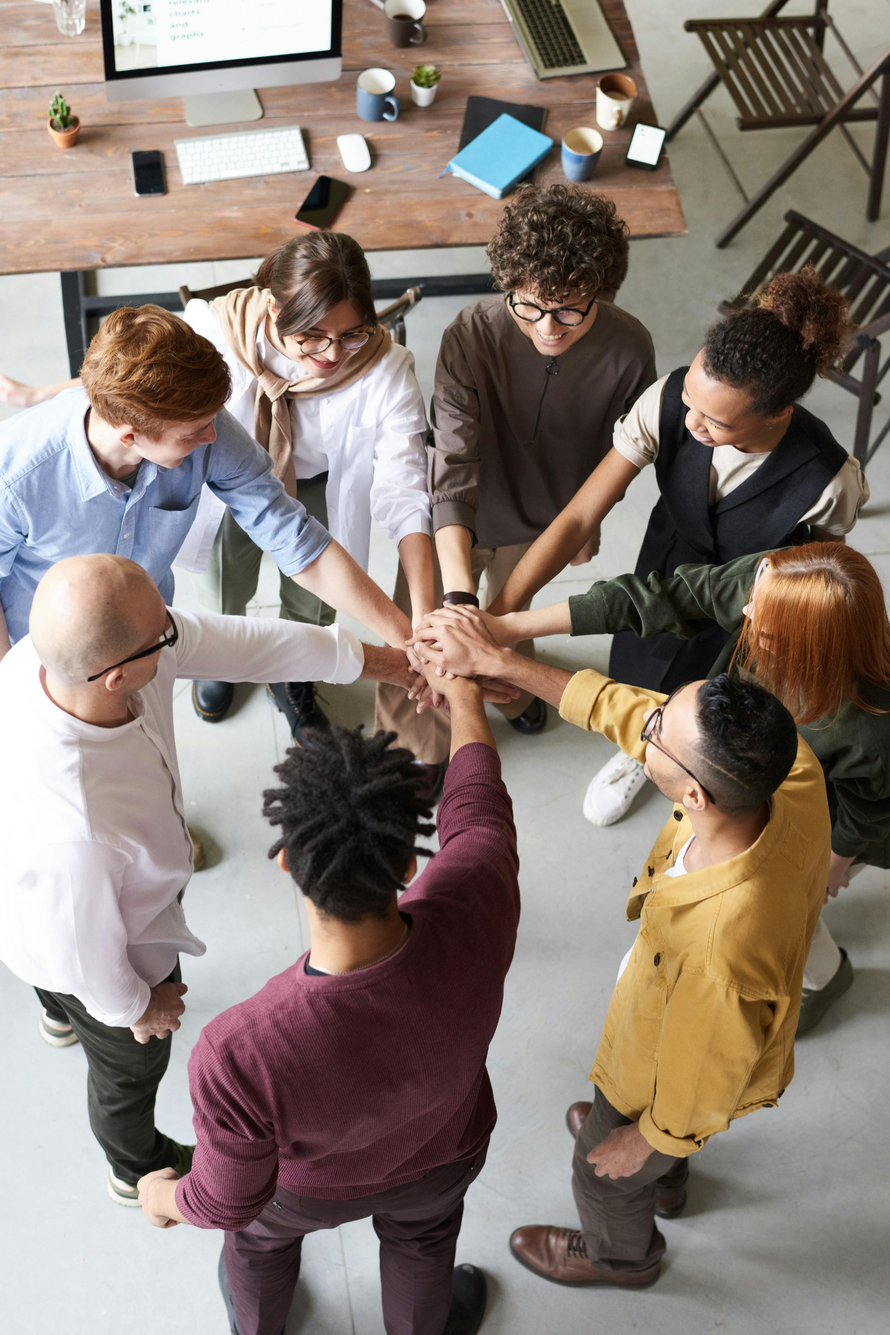
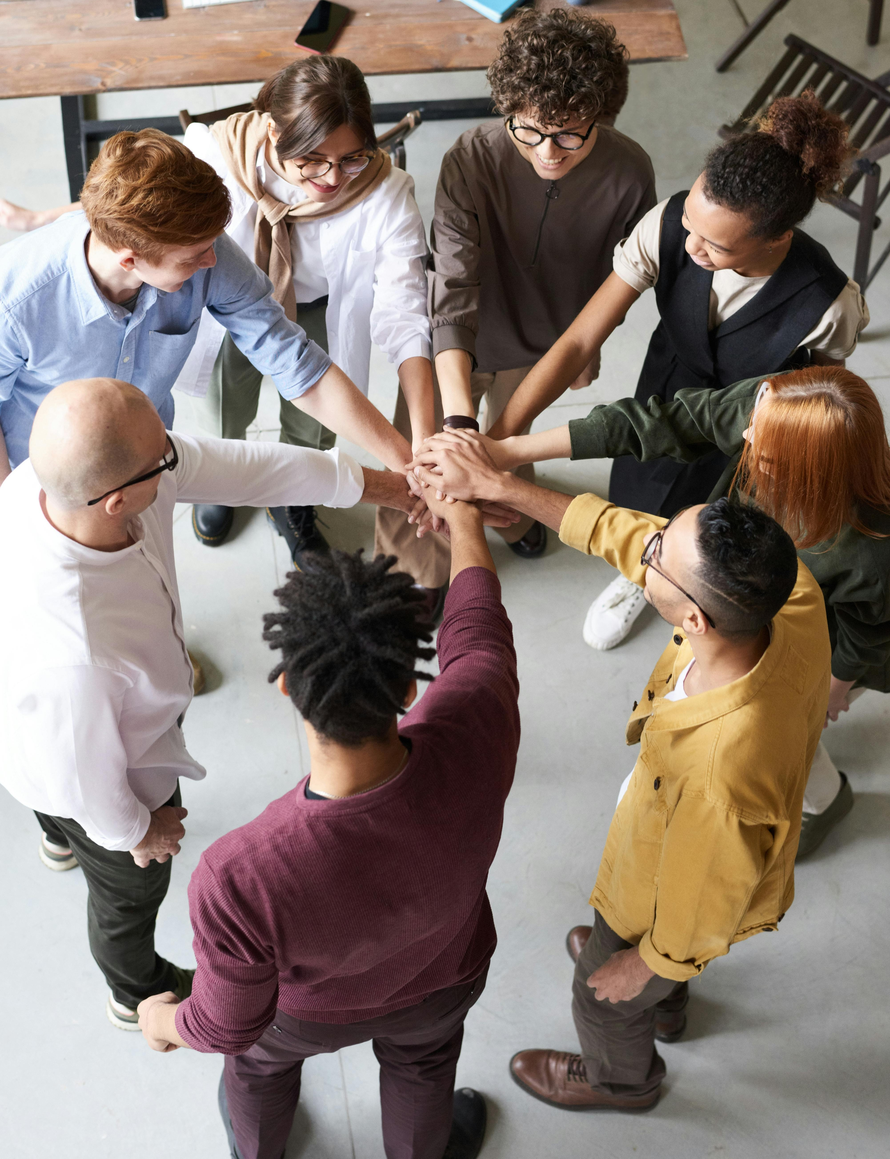
image fixed

diff --git a/src/component/about/Section1.tsx b/src/component/about/Section1.tsx
@@ -36,7 +36,7 @@ function Section1() {
                                 alt="Team discussion"
                                 layout="fill"
                                 objectFit="cover"
-                                className="transition-all duration-500 hover:scale-105"
+                                className="transition-all duration-500 hover:scale-105 object-top"
                             />
                             <div className="absolute inset-0 bg-gradient-to-t from-black/60 to-transparent"></div>
                         </div>
